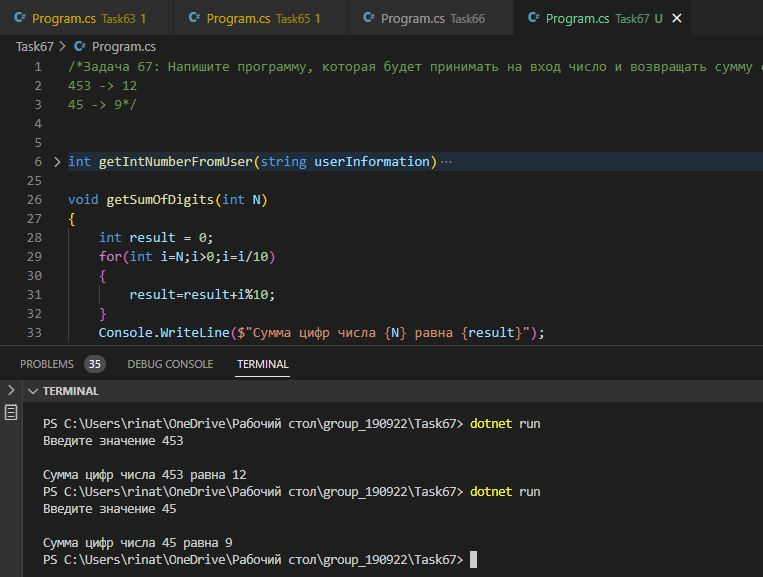
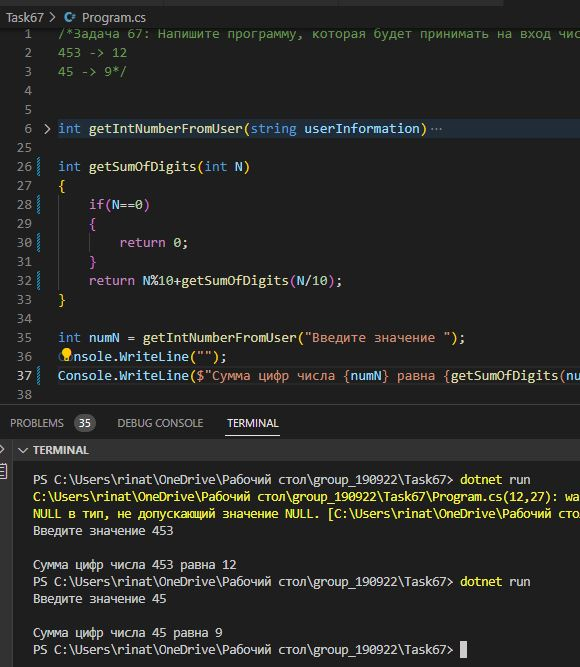
task67 added

Changed region(s): [[0.0, 0.0, 1.0, 0.9047], [0.031, 0.9359, 0.8069, 0.9983], [0.7759, 0.4991, 0.8069, 0.5303]]

diff --git a/Task67/Program.cs b/Task67/Program.cs
@@ -23,16 +23,15 @@ int getIntNumberFromUser(string userInformation)
     return result;
 }
 
-void getSumOfDigits(int N)
+int getSumOfDigits(int N)
 {
-    int result = 0;
-    for(int i=N;i>0;i=i/10)
+    if(N==0)
     {
-        result=result+i%10;
+        return 0;
     }
-    Console.WriteLine($"Сумма цифр числа {N} равна {result}");
+    return N%10+getSumOfDigits(N/10);
 }
 
 int numN = getIntNumberFromUser("Введите значение ");
 Console.WriteLine("");
-getSumOfDigits(numN);
+Console.WriteLine($"Сумма цифр числа {numN} равна {getSumOfDigits(numN)}");
